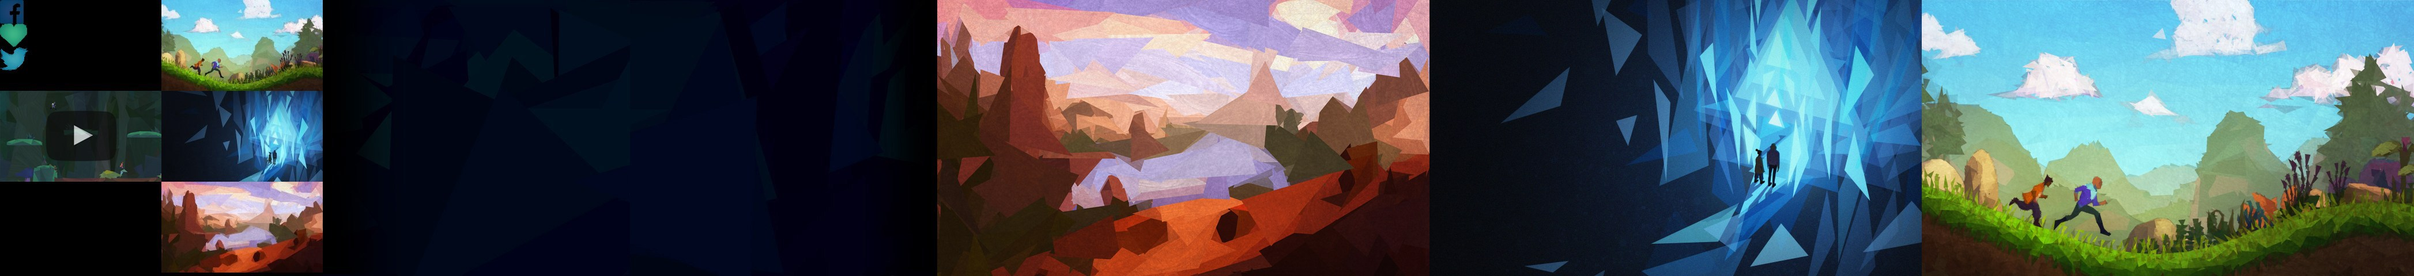
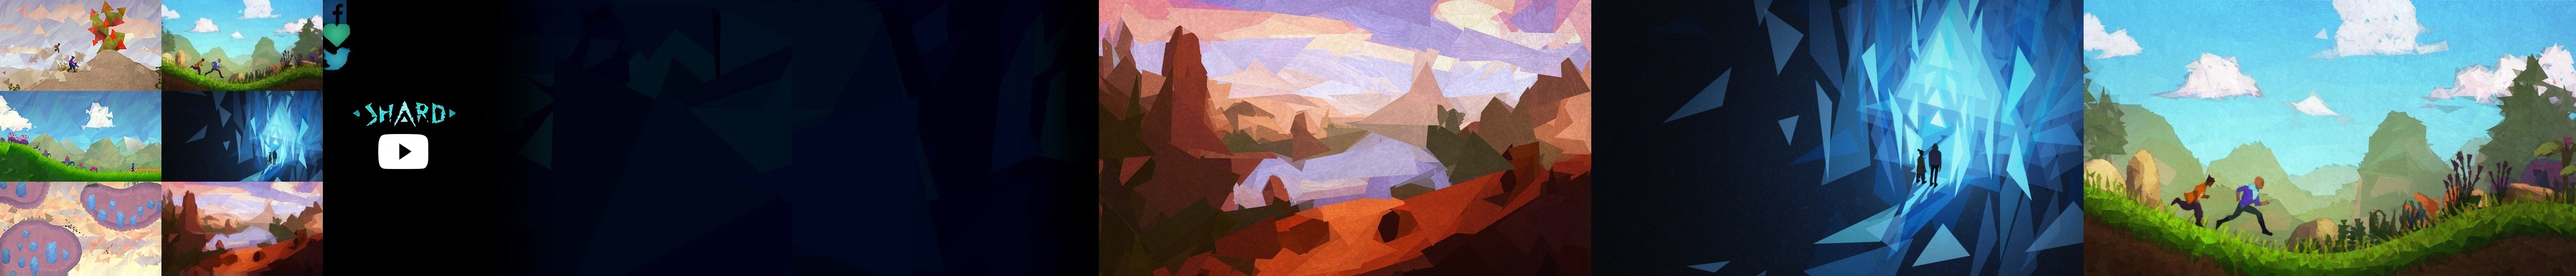
updated video, added 3 gifs, reordered subscribe

diff --git a/index.html b/index.html
@@ -33,17 +33,18 @@ body {
 }
 #dec_right {
   left: 854px;
-  background-position:-1093px 0px;
+  background-position:-1373px 0px;
 }
 #dec_left {
   left: -533px;
-  background-position:-560px 0px;
+  background-position:-840px 0px;
 }
-#top {
+
+#static {
   width:854px;
   height:480px;
   background:url(flat.jpg);
-  background-position:-1093px 0px;
+  background-position:-1373px 0px;
 }
 #desc, #logo {
   margin: 10px auto 10px auto;
@@ -58,7 +59,7 @@ body {
   margin: 15px auto 15px auto;
   text-align:center;
 }
-#bot0, #bot1, #bot2, #bot3 {
+#bot0, #bot1, #bot2, #bot3, #bot4, #bot5, #bot6 {
   width:280px;
   height:158px;
   background:url(flat.jpg);
@@ -73,26 +74,36 @@ body {
   background-position:-280px 0px;
 }
 #bot3 {
+  background-position:-560px -158px;
+}
+#bot4 {
   background-position:0px -158px;
+}
+#bot5 {
+  background-position:0px 0px;
+}
+#bot6 {
+  background-position:0px -316px;
 }
 #tw {
   width:50px;
   height:41px;
   background:url(flat.jpg);
-  background-position:0px -82px;
+  background-position:-560px -82px;
   display:inline-block;
 }
 #fb {
   width:41px;
   height:41px;
   background:url(flat.jpg);
+  background-position:-560px 0px;
   display:inline-block;
 }
 #ht {
   width:47px;
   height:41px;
   background:url(flat.jpg);
-  background-position:0px -41px;
+  background-position:-560px -41px;
   display:inline-block;
 }
   </style>
@@ -109,29 +120,40 @@ body {
 <!--
 function setIdx(idx)
 {
-  var elem = document.getElementById("top");
-  if (idx != 3)
+  var elem = document.getElementById("static");
+  if (idx < 3)
   {
-    elem.style.backgroundPosition="-"+(1626+idx*854)+"px 0px";
-    elem.style.width="854px";
+    elem.style.backgroundPosition="-"+(1906+idx*854)+"px 0px";
+    elem.style.display = "inline-block";
   }
   else
   {
-    elem.style.width=0;
+    elem.style.display = "none";
   }
 
   elem = document.getElementById("yt");
   if (idx != 3)
   {
     elem.contentWindow.postMessage('{"event":"command","func":"pauseVideo","args":""}', '*');
-    elem.style.width=0;
-    elem.style.height=0;
+    elem.style.display = "none";
   }
   else
   {
-    elem.style.width="854px";
-    elem.style.height="480px";
+    elem.style.display = "inline-block";
     elem.contentWindow.postMessage('{"event":"command","func":"playVideo","args":""}', '*');
+  }
+
+  for (i = 4; i < 7; ++i)
+  {
+    var elem = document.getElementById("gif"+i);
+    if (idx == i)
+    {
+      elem.style.display = "inline-block";
+    }
+    else
+    {
+      elem.style.display = "none";
+    }
   }
 
   elem = document.getElementById("desc");
@@ -147,7 +169,16 @@ function setIdx(idx)
     elem.innerHTML = "This tale is set as a platformer.";
     break;
  case 3:
-    elem.innerHTML = "Prototype Gameplay ca. May 2014.";
+    elem.innerHTML = "Shard Gameplay ca. Oct 2016.";
+    break;
+  case 5:
+    elem.innerHTML = "Reshape your surroundings.";
+    break;
+  case 4:
+    elem.innerHTML = "Join a friend and play along.";
+    break;
+  case 6:
+    elem.innerHTML = "Discover other worlds.";
     break;
   }
 
@@ -174,7 +205,7 @@ function setIdx(idx)
     break;
   }
 
-  for (i = 0; i < 4; ++i)
+  for (i = 0; i < 7; ++i)
   {
     var hide = idx == i;
     elem = document.getElementById("bot"+i);
@@ -189,24 +220,24 @@ function setIdx(idx)
 <div class="decorator" id="dec_left"></div>
 <div class="decorator" id="dec_right"></div>
 
+<div id="static"></div>
+<div id="gif4"><img src="4.gif"></div>
+<div id="gif5"><img src="5.gif"></div>
+<div id="gif6"><img src="6.gif"></div>
 <div id="top">
-<iframe id="yt" title="YouTube video player" class="youtube-player" type="text/html" width="854" height="480" src="http://www.youtube.com/embed/iV3qvCiBVc0?rel=0&enablejsapi=1" frameborder="0" allowFullScreen></iframe>
+<iframe id="yt" title="YouTube video player" class="youtube-player" type="text/html" width="854" height="480" src="http://www.youtube.com/embed/1nUGCyLZySA?rel=0&enablejsapi=1" frameborder="0" allowFullScreen></iframe>
 </div>
 
 <div id="desc">Everything is made of shards.</div>
 
 <div align=center>
+<div id="bot4" onClick='setIdx(4);' style='display:none'></div>
+<div id="bot5" onClick='setIdx(5);' style='display:none'></div>
+<div id="bot6" onClick='setIdx(6);' style='display:none'></div>
 <div id="bot0" onClick='setIdx(0);' style='display:none'></div>
 <div id="bot1" onClick='setIdx(1);' style='display:none'></div>
 <div id="bot2" onClick='setIdx(2);' style='display:none'></div>
 <div id="bot3" onClick='setIdx(3);' style='display:none'></div>
-</div>
-
-<div id="social">
-
-<a id="ht-link" href="http://bit.ly/1j7cnDA" alt="mr. div - white-xmas"><div id="ht"></div></a>
-<a href="http://facebook.com/ShardGame"><div id="fb"></div></a>
-<a href="http://twitter.com/ShardGame"><div id="tw"></div></a>
 </div>
 
 <div id="subscribe">
@@ -218,6 +249,13 @@ function setIdx(idx)
     <input type="submit" value="Subscribe" name="subscribe" id="mc-embedded-subscribe" class="button">
     </div>
 </form>
+</div>
+
+<div id="social">
+
+<a id="ht-link" href="http://bit.ly/1j7cnDA" alt="mr. div - white-xmas"><div id="ht"></div></a>
+<a href="http://facebook.com/ShardGame"><div id="fb"></div></a>
+<a href="http://twitter.com/ShardGame"><div id="tw"></div></a>
 </div>
 
 <script type="text/javascript">
